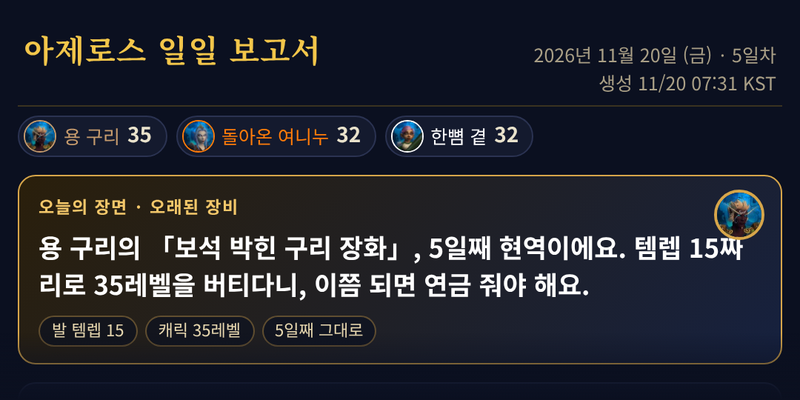
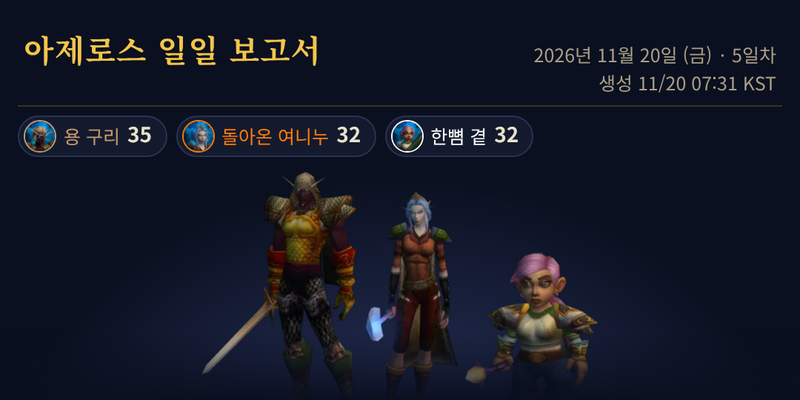
Update /azeroth/ 2026-11-20 daily report

Changed region(s): [[0.0, 0.42, 1.0, 0.96]]

diff --git a/azeroth/index.html b/azeroth/index.html
@@ -87,13 +87,21 @@ details[open] summary:before{content:'▾ '}
 .cc .todo{font-size:13px;margin-top:5px;color:#dfe6f7}.cc .todo:before{content:"오늘 → ";color:#8ee08e;font-weight:700}
 .cc.alt{opacity:.72;padding:7px 0}.cc.alt img.av{width:28px;height:28px}
 .pline{font-size:13px;margin-top:8px;padding-top:8px;border-top:1px solid #222a47}
+.lineup{position:relative;margin:10px 0 0;text-align:center;background:radial-gradient(ellipse at 50% 95%,#2a3560 0,#0b102000 70%);padding-bottom:8px}
+.lineup .st{position:relative;display:inline-block}.lineup img{display:block;margin:0 auto;max-width:100%;height:170px}
+.lineup .nm{position:absolute;bottom:-2px;transform:translateX(-50%);font-size:11.5px;font-weight:800;background:#0b1020cc;border-radius:99px;padding:0 7px;white-space:nowrap;text-align:center;line-height:1.35}
+.lineup .lnote{font-size:10.5px;color:#ffb36b;margin-top:6px}
+.scene2{display:flex;gap:8px;align-items:stretch}.scene2 .tx{flex:1;min-width:0}
+.zoom{flex:none;width:92px;display:flex;flex-direction:column;gap:4px;align-items:center}
+.zoom .mini{height:96px}.zoom .box{width:92px;border:2px solid #ff5a4a;border-radius:8px;overflow:hidden;background:#0b1020}
+.zoom .box img{width:100%;display:block}.zoom .lb{font-size:10.5px;color:#ff8a7a;font-weight:800;text-align:center}
 
 .fullink{display:block;text-align:center;margin:14px 0 4px;padding:10px;border:1px solid #2c3557;border-radius:10px;color:#c9d3ff;text-decoration:none;font-size:14px}
 </style>
 </head>
 <body>
 <div class="wrap">
-<div class="hero"><h1>아제로스 일일 보고서</h1><div class="d">2026년 11월 20일 (금) · 5일차<br><span class="g">생성 11/20 07:31 KST</span></div></div><div class="chips"><div class="chip"><img src="https://render.worldofwarcraft.com/forever-kr/character/202/1063370-avatar.jpg" style="border-color:#C69B6D"><span style="color:#C69B6D">용 구리</span><b>35</b></div><div class="chip"><img src="https://render.worldofwarcraft.com/forever-kr/character/249/1282809-avatar.jpg" style="border-color:#FF7C0A"><span style="color:#FF7C0A">돌아온 여니누</span><b>32</b></div><div class="chip"><img src="https://render.worldofwarcraft.com/forever-kr/character/210/1283026-avatar.jpg" style="border-color:#FFFFFF"><span style="color:#FFFFFF">한뼘 곁</span><b>32</b></div></div><div class="scene"><img class="av" src="https://render.worldofwarcraft.com/forever-kr/character/202/1063370-avatar.jpg"><div class="k">오늘의 장면 · 오래된 장비</div><div class="big">용 구리의 「보석 박힌 구리 장화」, 5일째 현역이에요. 템렙 15짜리로 35레벨을 버티다니, 이쯤 되면 연금 줘야 해요.</div><div class="ev"><span>발 템렙 15</span><span>캐릭 35레벨</span><span>5일째 그대로</span></div></div><div class="panel race"><h2>레벨 경주<small>11/16~11/20 아침 기록</small></h2><svg viewBox="0 0 360 92" role="img" aria-label="레벨 경주"><text x="8" y="89" font-size="10" fill="#7d89a8" text-anchor="middle">11/16</text><text x="78" y="89" font-size="10" fill="#7d89a8" text-anchor="middle">11/17</text><text x="149" y="89" font-size="10" fill="#7d89a8" text-anchor="middle">11/18</text><text x="220" y="89" font-size="10" fill="#7d89a8" text-anchor="middle">11/19</text><text x="290" y="89" font-size="10" fill="#7d89a8" text-anchor="middle">11/20</text><polyline points="8.0,37.5 78.5,32.0 149.0,26.5 219.5,21.0 290.0,15.5" fill="none" stroke="#C69B6D" stroke-width="2.2" stroke-linejoin="round" stroke-linecap="round"/><polyline points="8.0,65.0 78.5,54.0 149.0,54.0 219.5,32.0 290.0,32.0" fill="none" stroke="#FF7C0A" stroke-width="2.2" stroke-linejoin="round" stroke-linecap="round"/><polyline points="8.0,70.5 78.5,59.5 149.0,59.5 219.5,32.0 290.0,32.0" fill="none" stroke="#FFFFFF" stroke-width="2.2" stroke-linejoin="round" stroke-linecap="round"/><text x="296" y="19.5" font-size="11" font-weight="700" fill="#C69B6D">구리 35</text><text x="296" y="36.0" font-size="11" font-weight="700" fill="#FF7C0A">여니누 32</text><text x="296" y="48.0" font-size="11" font-weight="700" fill="#FFFFFF">곁 32</text></svg></div><div class="panel"><h2>고인물의 한마디<small>본캐 셋 · 어제와 오늘</small></h2><div class="cc"><img class="av" src="https://render.worldofwarcraft.com/forever-kr/character/210/1283026-avatar.jpg" style="border-color:#FFFFFF"><div style="flex:1"><span class="nm" style="color:#FFFFFF">한뼘 곁</span> <span class="muted">유집 · 32레벨 · 템렙 23</span><div class="y">아머리 기준 변화 없음</div><div class="q"><b>기다리는 「물약 가방」</b>「갈대로 엮은 마음」 보상 「물약 가방」(템렙 33), 아직 안 받았다면 장신구1 칸은 지금 장식이에요. 이미 했다면 제가 민망한 거고요. 발굴 현장: 저습지 안에서 받는 퀘예요.</div><div class="todo"><b>저습지</b> 퀘 9개부터 끝내요.</div><details><summary>장비·전문기술</summary><div class="gear"><span class="e"></span><img src="https://render.worldofwarcraft.com/forever-kr/icons/56/133302.jpg" style="border-color:#0070dd" title="거인석 메달"><img src="https://render.worldofwarcraft.com/forever-kr/icons/56/135036.jpg" style="border-color:#1eff00" title="명예의 어깨보호대"><img src="https://render.worldofwarcraft.com/forever-kr/icons/56/133758.jpg" style="border-color:#1eff00" title="신념의 망토"><img src="https://render.worldofwarcraft.com/forever-kr/icons/56/135012.jpg" style="border-color:#1eff00" title="올빼미의 미명 갑옷"><img src="https://render.worldofwarcraft.com/forever-kr/icons/56/132611.jpg" style="border-color:#1eff00" title="올빼미의 해적단 팔보호구"><img src="https://render.worldofwarcraft.com/forever-kr/icons/56/132954.jpg" style="border-color:#1eff00" title="별자리 장갑"><img src="https://render.worldofwarcraft.com/forever-kr/icons/56/132500.jpg" style="border-color:#1eff00" title="광휘의 허리띠"><img src="https://render.worldofwarcraft.com/forever-kr/icons/56/134588.jpg" style="border-color:#1eff00" title="어둠의 순찰대 바지"><img src="https://render.worldofwarcraft.com/forever-kr/icons/56/132539.jpg" style="border-color:#1eff00" title="소각자의 장화"><img src="https://render.worldofwarcraft.com/forever-kr/icons/56/133347.jpg" style="border-color:#0070dd" title="린의 인장"><img src="https://render.worldofwarcraft.com/forever-kr/icons/56/133350.jpg" style="border-color:#1eff00" title="라디모어 가보 반지"><span class="e"></span><span class="e"></span><img src="https://render.worldofwarcraft.com/forever-kr/icons/56/135147.jpg" style="border-color:#0070dd" title="서부 몰락지대 지팡이"><span class="e"></span><img src="https://render.worldofwarcraft.com/forever-kr/icons/56/135139.jpg" style="border-color:#0070dd" title="우레나무"></div><div class="muted" style="margin-top:4px">재봉술 122/150 · 마법부여 119/150 · 요리 107/150 · 응급치료 99/150</div></details></div></div><div class="cc"><img class="av" src="https://render.worldofwarcraft.com/forever-kr/character/202/1063370-avatar.jpg" style="border-color:#C69B6D"><div style="flex:1"><span class="nm" style="color:#C69B6D">용 구리</span> <span class="muted">진규 · 35레벨 · 템렙 27</span><div class="y">35레벨(+1) · 채광 +12 · 대장기술 +10 · 새 템 1개</div><div class="q"><b>정이 많은 발</b>35레벨 발에 템렙 15 「보석 박힌 구리 장화」. 이건 장비가 아니라 유물이에요. 박물관에 기증할 때가 됐어요.</div><div class="todo"><b>힐스브래드 구릉지</b> 퀘 3개부터 끝내고, 알터랙 산맥(14.3, 59.6) 「비전에 굶주린 자들」 퀘로 빈 목 칸에 <b>「Fallen Guard&#x27;s Pendant」</b>(템렙 36)를 채워요.</div><details><summary>장비·전문기술</summary><div class="gear"><img src="https://render.worldofwarcraft.com/forever-kr/icons/56/133070.jpg" style="border-color:#1eff00" title="불금속 코이프"><span class="e"></span><img src="https://render.worldofwarcraft.com/forever-kr/icons/56/135039.jpg" style="border-color:#1eff00" title="아른거리는 미늘 어깨갑옷"><img src="https://render.worldofwarcraft.com/forever-kr/icons/56/133772.jpg" style="border-color:#0070dd" title="골렘 전쟁 망토"><img src="https://render.worldofwarcraft.com/forever-kr/icons/56/132751.jpg" style="border-color:#1eff00" title="희미하게 빛나는 쇠사슬 흉갑"><img src="https://render.worldofwarcraft.com/forever-kr/icons/56/132602.jpg" style="border-color:#1eff00" title="힘의 띠매듭 팔보호구"><img src="https://render.worldofwarcraft.com/forever-kr/icons/56/132937.jpg" style="border-color:#1eff00" title="희미하게 빛나는 쇠사슬 건틀릿"><img src="https://render.worldofwarcraft.com/forever-kr/icons/56/132516.jpg" style="border-color:#0070dd" title="황혼의 군주 요대"><img src="https://render.worldofwarcraft.com/forever-kr/icons/56/134583.jpg" style="border-color:#0070dd" title="서부 몰락지대 다리보호구"><img src="https://render.worldofwarcraft.com/forever-kr/icons/56/132554.jpg" style="border-color:#0070dd" title="보석 박힌 구리 장화"><img src="https://render.worldofwarcraft.com/forever-kr/icons/56/133347.jpg" style="border-color:#0070dd" title="린의 인장"><img src="https://render.worldofwarcraft.com/forever-kr/icons/56/133350.jpg" style="border-color:#1eff00" title="파멸의 반지"><img src="https://render.worldofwarcraft.com/forever-kr/icons/56/136155.jpg" style="border-color:#0070dd" title="저주받은 멀록 눈"><img src="https://render.worldofwarcraft.com/forever-kr/icons/56/133633.jpg" style="border-color:#1eff00" title="물약 가방"><img src="https://render.worldofwarcraft.com/forever-kr/icons/56/135274.jpg" style="border-color:#0070dd" title="믿음직한 검"><span class="e"></span><img src="https://render.worldofwarcraft.com/forever-kr/icons/56/134536.jpg" style="border-color:#0070dd" title="골렘시야 장총"></div><div class="muted" style="margin-top:4px">채광 150/150 · 대장기술 110/150 · 요리 150/150 · 낚시 98/150 · 응급치료 150/150</div></details></div></div><div class="cc"><img class="av" src="https://render.worldofwarcraft.com/forever-kr/character/249/1282809-avatar.jpg" style="border-color:#FF7C0A"><div style="flex:1"><span class="nm" style="color:#FF7C0A">돌아온 여니누</span> <span class="muted">주연 · 32레벨 · 템렙 23</span><div class="y">낚시 +8 · 약초채집 +1</div><div class="q"><b>천장에 박힌 요리</b>요리 150/150에서 계속 두들기는 건 수련이 아니라 그냥 노동이에요. 전문기술 선생님한테 당장 가요.</div><div class="todo"><b>저습지</b> 퀘 7개부터 끝내고, 「갈대로 엮은 마음」 퀘로 빈 장신구1 칸에 <b>「물약 가방」</b>(템렙 33)을 채워요.</div><details><summary>장비·전문기술</summary><div class="gear"><span class="e"></span><img src="https://render.worldofwarcraft.com/forever-kr/icons/56/133302.jpg" style="border-color:#0070dd" title="거인석 메달"><img src="https://render.worldofwarcraft.com/forever-kr/icons/56/135039.jpg" style="border-color:#1eff00" title="다크샤이어 어깨보호대"><img src="https://render.worldofwarcraft.com/forever-kr/icons/56/133768.jpg" style="border-color:#1eff00" title="발굴 망토"><img src="https://render.worldofwarcraft.com/forever-kr/icons/56/132722.jpg" style="border-color:#0070dd" title="서부 몰락지대 튜닉"><img src="https://render.worldofwarcraft.com/forever-kr/icons/56/132606.jpg" style="border-color:#1eff00" title="용기의 완장"><img src="https://render.worldofwarcraft.com/forever-kr/icons/56/132958.jpg" style="border-color:#0070dd" title="데피아즈단 탈옥 장갑"><img src="https://render.worldofwarcraft.com/forever-kr/icons/56/132492.jpg" style="border-color:#1eff00" title="수목의 가죽 허리띠"><img src="https://render.worldofwarcraft.com/forever-kr/icons/56/134586.jpg" style="border-color:#1eff00" title="칼날아귀 반바지"><img src="https://render.worldofwarcraft.com/forever-kr/icons/56/132542.jpg" style="border-color:#1eff00" title="대사의 장화"><img src="https://render.worldofwarcraft.com/forever-kr/icons/56/133347.jpg" style="border-color:#0070dd" title="린의 인장"><img src="https://render.worldofwarcraft.com/forever-kr/icons/56/133344.jpg" style="border-color:#0070dd" title="데피아즈단 변절마법사의 반지"><span class="e"></span><span class="e"></span><img src="https://render.worldofwarcraft.com/forever-kr/icons/56/134435.jpg" style="border-color:#0070dd" title="도굴꾼의 삽"><span class="e"></span><img src="https://render.worldofwarcraft.com/forever-kr/icons/56/134914.jpg" style="border-color:#1eff00" title="변덕스러운 조류의 우상"></div><div class="muted" style="margin-top:4px">연금술 136/150 · 약초채집 187/225 · 요리 150/150 · 낚시 78/150 · 응급치료 150/150</div></details></div></div><div class="cc alt"><img class="av" src="https://render.worldofwarcraft.com/forever-kr/character/72/1283144-avatar.jpg" style="border-color:#F48CBA"><div><span class="nm" style="color:#F48CBA">망치든 여니누</span><span class="tag alt">부캐</span> <span class="muted">주연 · 23레벨</span><div class="y">23레벨(+1) · 응급치료 +17 · 채광 +5 · 새 템 5개</div></div></div><div class="pline"><span class="tag party">파티</span> 한뼘 곁과 돌아온 여니누는 저습지가 겹치니 같이 돌고, <b>「티탄 신화」</b>는 셋이 붉은십자군 수도원 가는 날 함께 끝내요.</div></div><div class="panel"><h2>오늘의 장사<small>경매장 #110 · 예비 · 관측 9시간</small></h2><div class="tr"><span class="who">한뼘 곁</span>「파란색 작업복」을 만들어 팔면 하루 <span class="g">67실 80코</span> 정도 남아요.<span class="sub">개당 33실 50코 남고, 시간당 0.11개 팔려요. 아는 도안 · 신뢰도 예비·낮음</span></div><div class="tr"><span class="who">용 구리</span>「육즙이 많은 돼지 갈비」를 만들어 팔면 하루 <span class="g">47실 24코</span> 정도 남아요.<span class="sub">개당 2실 36코 남고, 시간당 2.22개 팔려요. 아는 도안 · 신뢰도 예비·중간</span></div><div class="tr"><span class="who">돌아온 여니누</span>「아귀 오일」을 만들어 팔면 하루 <span class="g">81실 50코</span> 정도 남아요.<span class="sub">개당 4실 8코 남고, 시간당 5.32개 팔려요. 아는 도안 · 신뢰도 예비·중간</span></div></div><div class="panel more"><details><summary>더 보기 · 파티 공방, 템렙, 공통 퀘</summary><div class="in"><p><b>파티 공방</b> 주연님 「지혜의 비약」이 있으면 유집님이 「명상의 장갑」을 만들 수 있어요.</p><p><b>템렙 최약점</b> 돌아온 여니누는 원거리(템렙 16)예요. 용 구리는 발(템렙 15)예요. 한뼘 곁는 손목(템렙 19)예요.</p><p><b>본캐 공통 퀘</b> 「페레놀드 티아라」(스톰윈드), 「마우렌 돕기」(돌발톱 산맥), 「티탄 신화」(붉은십자군 수도원), 「송블레이드 수색」(발굴 현장: 저습지)</p><p class="muted">진영 저울·직업 희소성·재료 시세·시즌 기록은 전체판에 있어요.</p></div></details></div>
+<div class="hero"><h1>아제로스 일일 보고서</h1><div class="d">2026년 11월 20일 (금) · 5일차<br><span class="g">생성 11/20 07:31 KST</span></div></div><div class="chips"><div class="chip"><img src="https://render.worldofwarcraft.com/forever-kr/character/202/1063370-avatar.jpg" style="border-color:#C69B6D"><span style="color:#C69B6D">용 구리</span><b>35</b></div><div class="chip"><img src="https://render.worldofwarcraft.com/forever-kr/character/249/1282809-avatar.jpg" style="border-color:#FF7C0A"><span style="color:#FF7C0A">돌아온 여니누</span><b>32</b></div><div class="chip"><img src="https://render.worldofwarcraft.com/forever-kr/character/210/1283026-avatar.jpg" style="border-color:#FFFFFF"><span style="color:#FFFFFF">한뼘 곁</span><b>32</b></div></div><div class="lineup"><div class="st"><img src="img/lineup.webp?v=19e11efbda" alt="파티 단체 사진 · 아머리 렌더 2026-11-20"><span class="nm" style="left:19.8%;color:#C69B6D">용 구리</span><span class="nm" style="left:52.9%;color:#FF7C0A">돌아온 여니누 *</span><span class="nm" style="left:83.2%;color:#FFFFFF">한뼘 곁 *</span></div><div class="lnote">* 돌아온 여니누·한뼘 곁: 렌더가 보고서보다 최신</div></div><div class="scene"><div class="scene2"><div class="tx"><div class="k">오늘의 장면 · 오래된 장비</div><div class="big">용 구리의 「보석 박힌 구리 장화」, 5일째 현역이에요. 템렙 15짜리로 35레벨을 버티다니, 이쯤 되면 연금 줘야 해요.</div><div class="ev"><span>발 템렙 15</span><span>캐릭 35레벨</span><span>5일째 그대로</span></div></div><div class="zoom"><img class="mini" src="img/scene_full.webp?v=6dc0b24a33" alt="용 구리 전신"><div class="box"><img src="img/zoom.webp?v=7cc9d6032b" alt="발 확대"></div><div class="lb">발 · 템렙 15</div></div></div></div><div class="panel race"><h2>레벨 경주<small>11/16~11/20 아침 기록</small></h2><svg viewBox="0 0 360 92" role="img" aria-label="레벨 경주"><text x="0" y="89" font-size="10" fill="#7d89a8" text-anchor="start">11/16</text><text x="78" y="89" font-size="10" fill="#7d89a8" text-anchor="middle">11/17</text><text x="149" y="89" font-size="10" fill="#7d89a8" text-anchor="middle">11/18</text><text x="220" y="89" font-size="10" fill="#7d89a8" text-anchor="middle">11/19</text><text x="290" y="89" font-size="10" fill="#7d89a8" text-anchor="middle">11/20</text><polyline points="8.0,37.5 78.5,32.0 149.0,26.5 219.5,21.0 290.0,15.5" fill="none" stroke="#C69B6D" stroke-width="2.2" stroke-linejoin="round" stroke-linecap="round"/><polyline points="8.0,65.0 78.5,54.0 149.0,54.0 219.5,32.0 290.0,32.0" fill="none" stroke="#FF7C0A" stroke-width="2.2" stroke-linejoin="round" stroke-linecap="round"/><polyline points="8.0,70.5 78.5,59.5 149.0,59.5 219.5,32.0 290.0,32.0" fill="none" stroke="#FFFFFF" stroke-width="2.2" stroke-linejoin="round" stroke-linecap="round"/><text x="296" y="19.5" font-size="11" font-weight="700" fill="#C69B6D">구리 35</text><text x="296" y="36.0" font-size="11" font-weight="700" fill="#FF7C0A">여니누 32</text><text x="296" y="48.0" font-size="11" font-weight="700" fill="#FFFFFF">곁 32</text></svg></div><div class="panel"><h2>고인물의 한마디<small>본캐 셋 · 어제와 오늘</small></h2><div class="cc"><img class="av" src="https://render.worldofwarcraft.com/forever-kr/character/210/1283026-avatar.jpg" style="border-color:#FFFFFF"><div style="flex:1"><span class="nm" style="color:#FFFFFF">한뼘 곁</span> <span class="muted">유집 · 32레벨 · 템렙 23</span><div class="y">아머리 기준 변화 없음</div><div class="q"><b>기다리는 「물약 가방」</b>「갈대로 엮은 마음」 보상 「물약 가방」(템렙 33), 아직 안 받았다면 장신구1 칸은 지금 장식이에요. 이미 했다면 제가 민망한 거고요. 발굴 현장: 저습지 안에서 받는 퀘예요.</div><div class="todo"><b>저습지</b> 퀘 9개부터 끝내요.</div><details><summary>장비·전문기술</summary><div class="gear"><span class="e"></span><img src="https://render.worldofwarcraft.com/forever-kr/icons/56/133302.jpg" style="border-color:#0070dd" title="거인석 메달"><img src="https://render.worldofwarcraft.com/forever-kr/icons/56/135036.jpg" style="border-color:#1eff00" title="명예의 어깨보호대"><img src="https://render.worldofwarcraft.com/forever-kr/icons/56/133758.jpg" style="border-color:#1eff00" title="신념의 망토"><img src="https://render.worldofwarcraft.com/forever-kr/icons/56/135012.jpg" style="border-color:#1eff00" title="올빼미의 미명 갑옷"><img src="https://render.worldofwarcraft.com/forever-kr/icons/56/132611.jpg" style="border-color:#1eff00" title="올빼미의 해적단 팔보호구"><img src="https://render.worldofwarcraft.com/forever-kr/icons/56/132954.jpg" style="border-color:#1eff00" title="별자리 장갑"><img src="https://render.worldofwarcraft.com/forever-kr/icons/56/132500.jpg" style="border-color:#1eff00" title="광휘의 허리띠"><img src="https://render.worldofwarcraft.com/forever-kr/icons/56/134588.jpg" style="border-color:#1eff00" title="어둠의 순찰대 바지"><img src="https://render.worldofwarcraft.com/forever-kr/icons/56/132539.jpg" style="border-color:#1eff00" title="소각자의 장화"><img src="https://render.worldofwarcraft.com/forever-kr/icons/56/133347.jpg" style="border-color:#0070dd" title="린의 인장"><img src="https://render.worldofwarcraft.com/forever-kr/icons/56/133350.jpg" style="border-color:#1eff00" title="라디모어 가보 반지"><span class="e"></span><span class="e"></span><img src="https://render.worldofwarcraft.com/forever-kr/icons/56/135147.jpg" style="border-color:#0070dd" title="서부 몰락지대 지팡이"><span class="e"></span><img src="https://render.worldofwarcraft.com/forever-kr/icons/56/135139.jpg" style="border-color:#0070dd" title="우레나무"></div><div class="muted" style="margin-top:4px">재봉술 122/150 · 마법부여 119/150 · 요리 107/150 · 응급치료 99/150</div></details></div></div><div class="cc"><img class="av" src="https://render.worldofwarcraft.com/forever-kr/character/202/1063370-avatar.jpg" style="border-color:#C69B6D"><div style="flex:1"><span class="nm" style="color:#C69B6D">용 구리</span> <span class="muted">진규 · 35레벨 · 템렙 27</span><div class="y">35레벨(+1) · 채광 +12 · 대장기술 +10 · 새 템 1개</div><div class="q"><b>정이 많은 발</b>35레벨 발에 템렙 15 「보석 박힌 구리 장화」. 이건 장비가 아니라 유물이에요. 박물관에 기증할 때가 됐어요.</div><div class="todo"><b>힐스브래드 구릉지</b> 퀘 3개부터 끝내고, 알터랙 산맥(14.3, 59.6) 「비전에 굶주린 자들」 퀘로 빈 목 칸에 <b>「Fallen Guard&#x27;s Pendant」</b>(템렙 36)를 채워요.</div><details><summary>장비·전문기술</summary><div class="gear"><img src="https://render.worldofwarcraft.com/forever-kr/icons/56/133070.jpg" style="border-color:#1eff00" title="불금속 코이프"><span class="e"></span><img src="https://render.worldofwarcraft.com/forever-kr/icons/56/135039.jpg" style="border-color:#1eff00" title="아른거리는 미늘 어깨갑옷"><img src="https://render.worldofwarcraft.com/forever-kr/icons/56/133772.jpg" style="border-color:#0070dd" title="골렘 전쟁 망토"><img src="https://render.worldofwarcraft.com/forever-kr/icons/56/132751.jpg" style="border-color:#1eff00" title="희미하게 빛나는 쇠사슬 흉갑"><img src="https://render.worldofwarcraft.com/forever-kr/icons/56/132602.jpg" style="border-color:#1eff00" title="힘의 띠매듭 팔보호구"><img src="https://render.worldofwarcraft.com/forever-kr/icons/56/132937.jpg" style="border-color:#1eff00" title="희미하게 빛나는 쇠사슬 건틀릿"><img src="https://render.worldofwarcraft.com/forever-kr/icons/56/132516.jpg" style="border-color:#0070dd" title="황혼의 군주 요대"><img src="https://render.worldofwarcraft.com/forever-kr/icons/56/134583.jpg" style="border-color:#0070dd" title="서부 몰락지대 다리보호구"><img src="https://render.worldofwarcraft.com/forever-kr/icons/56/132554.jpg" style="border-color:#0070dd" title="보석 박힌 구리 장화"><img src="https://render.worldofwarcraft.com/forever-kr/icons/56/133347.jpg" style="border-color:#0070dd" title="린의 인장"><img src="https://render.worldofwarcraft.com/forever-kr/icons/56/133350.jpg" style="border-color:#1eff00" title="파멸의 반지"><img src="https://render.worldofwarcraft.com/forever-kr/icons/56/136155.jpg" style="border-color:#0070dd" title="저주받은 멀록 눈"><img src="https://render.worldofwarcraft.com/forever-kr/icons/56/133633.jpg" style="border-color:#1eff00" title="물약 가방"><img src="https://render.worldofwarcraft.com/forever-kr/icons/56/135274.jpg" style="border-color:#0070dd" title="믿음직한 검"><span class="e"></span><img src="https://render.worldofwarcraft.com/forever-kr/icons/56/134536.jpg" style="border-color:#0070dd" title="골렘시야 장총"></div><div class="muted" style="margin-top:4px">채광 150/150 · 대장기술 110/150 · 요리 150/150 · 낚시 98/150 · 응급치료 150/150</div></details></div></div><div class="cc"><img class="av" src="https://render.worldofwarcraft.com/forever-kr/character/249/1282809-avatar.jpg" style="border-color:#FF7C0A"><div style="flex:1"><span class="nm" style="color:#FF7C0A">돌아온 여니누</span> <span class="muted">주연 · 32레벨 · 템렙 23</span><div class="y">낚시 +8 · 약초채집 +1</div><div class="q"><b>천장에 박힌 요리</b>요리 150/150에서 계속 두들기는 건 수련이 아니라 그냥 노동이에요. 전문기술 선생님한테 당장 가요.</div><div class="todo"><b>저습지</b> 퀘 7개부터 끝내고, 「갈대로 엮은 마음」 퀘로 빈 장신구1 칸에 <b>「물약 가방」</b>(템렙 33)을 채워요.</div><details><summary>장비·전문기술</summary><div class="gear"><span class="e"></span><img src="https://render.worldofwarcraft.com/forever-kr/icons/56/133302.jpg" style="border-color:#0070dd" title="거인석 메달"><img src="https://render.worldofwarcraft.com/forever-kr/icons/56/135039.jpg" style="border-color:#1eff00" title="다크샤이어 어깨보호대"><img src="https://render.worldofwarcraft.com/forever-kr/icons/56/133768.jpg" style="border-color:#1eff00" title="발굴 망토"><img src="https://render.worldofwarcraft.com/forever-kr/icons/56/132722.jpg" style="border-color:#0070dd" title="서부 몰락지대 튜닉"><img src="https://render.worldofwarcraft.com/forever-kr/icons/56/132606.jpg" style="border-color:#1eff00" title="용기의 완장"><img src="https://render.worldofwarcraft.com/forever-kr/icons/56/132958.jpg" style="border-color:#0070dd" title="데피아즈단 탈옥 장갑"><img src="https://render.worldofwarcraft.com/forever-kr/icons/56/132492.jpg" style="border-color:#1eff00" title="수목의 가죽 허리띠"><img src="https://render.worldofwarcraft.com/forever-kr/icons/56/134586.jpg" style="border-color:#1eff00" title="칼날아귀 반바지"><img src="https://render.worldofwarcraft.com/forever-kr/icons/56/132542.jpg" style="border-color:#1eff00" title="대사의 장화"><img src="https://render.worldofwarcraft.com/forever-kr/icons/56/133347.jpg" style="border-color:#0070dd" title="린의 인장"><img src="https://render.worldofwarcraft.com/forever-kr/icons/56/133344.jpg" style="border-color:#0070dd" title="데피아즈단 변절마법사의 반지"><span class="e"></span><span class="e"></span><img src="https://render.worldofwarcraft.com/forever-kr/icons/56/134435.jpg" style="border-color:#0070dd" title="도굴꾼의 삽"><span class="e"></span><img src="https://render.worldofwarcraft.com/forever-kr/icons/56/134914.jpg" style="border-color:#1eff00" title="변덕스러운 조류의 우상"></div><div class="muted" style="margin-top:4px">연금술 136/150 · 약초채집 187/225 · 요리 150/150 · 낚시 78/150 · 응급치료 150/150</div></details></div></div><div class="cc alt"><img class="av" src="https://render.worldofwarcraft.com/forever-kr/character/72/1283144-avatar.jpg" style="border-color:#F48CBA"><div><span class="nm" style="color:#F48CBA">망치든 여니누</span><span class="tag alt">부캐</span> <span class="muted">주연 · 23레벨</span><div class="y">23레벨(+1) · 응급치료 +17 · 채광 +5 · 새 템 5개</div></div></div><div class="pline"><span class="tag party">파티</span> 한뼘 곁과 돌아온 여니누는 저습지가 겹치니 같이 돌고, <b>「티탄 신화」</b>는 셋이 붉은십자군 수도원 가는 날 함께 끝내요.</div></div><div class="panel"><h2>오늘의 장사<small>경매장 #110 · 예비 · 관측 9시간</small></h2><div class="tr"><span class="who">한뼘 곁</span>「파란색 작업복」을 만들어 팔면 하루 <span class="g">67실 80코</span> 정도 남아요.<span class="sub">개당 33실 50코 남고, 시간당 0.11개 팔려요. 아는 도안 · 신뢰도 예비·낮음</span></div><div class="tr"><span class="who">용 구리</span>「육즙이 많은 돼지 갈비」를 만들어 팔면 하루 <span class="g">47실 24코</span> 정도 남아요.<span class="sub">개당 2실 36코 남고, 시간당 2.22개 팔려요. 아는 도안 · 신뢰도 예비·중간</span></div><div class="tr"><span class="who">돌아온 여니누</span>「아귀 오일」을 만들어 팔면 하루 <span class="g">81실 50코</span> 정도 남아요.<span class="sub">개당 4실 8코 남고, 시간당 5.32개 팔려요. 아는 도안 · 신뢰도 예비·중간</span></div></div><div class="panel more"><details><summary>더 보기 · 파티 공방, 템렙, 공통 퀘</summary><div class="in"><p><b>파티 공방</b> 주연님 「지혜의 비약」이 있으면 유집님이 「명상의 장갑」을 만들 수 있어요.</p><p><b>템렙 최약점</b> 돌아온 여니누는 원거리(템렙 16)예요. 용 구리는 발(템렙 15)예요. 한뼘 곁는 손목(템렙 19)예요.</p><p><b>본캐 공통 퀘</b> 「페레놀드 티아라」(스톰윈드), 「마우렌 돕기」(돌발톱 산맥), 「티탄 신화」(붉은십자군 수도원), 「송블레이드 수색」(발굴 현장: 저습지)</p><p class="muted">진영 저울·직업 희소성·재료 시세·시즌 기록은 전체판에 있어요.</p></div></details></div>
 <a class="fullink" href="full.html">전체판 보기 · 장비, 공방, 시즌 기록, 진영·시세</a>
 <footer class="foot">매일 아침 아머리 공개 정보·블리자드 공식 API·로컬 퀘 DB로 만듭니다.<br>
 업그레이드 퀘 완료 여부는 아머리에 없어 미확인</footer>

diff --git a/azeroth/full.html b/azeroth/full.html
@@ -312,7 +312,7 @@ table.mkt tr.grp td{color:#ff9c3a;font-size:11px;font-weight:800;border-bottom:n
 <p class="xnote">숙련 = 현재/상한(주·보조 전문기술 모두). 업적 점수는 포에버 API에서 0으로 나와서 개수로 비교해요. 탐험 = 「○○ 탐험」 업적 완료/진행 중 지역 수.</p></section>
 <section class="panel xsec"><h2>진행 퀘스트·마지막 접속<small>공식 API</small></h2>
 <p class="xline">가장 최근에 아제로스에 있던 본캐는 <b style="color:#C69B6D">용 구리</b>예요.</p>
-<div class="qrow"><span class="nm" style="color:#C69B6D">용 구리</span><span class="seen">11/20 01:14 KST · 16시간 전</span><span class="qq">진행 중 38 <span class="chg">+11</span> · 완료 누적 476 <span class="chg">+22</span></span></div><div class="qrow"><span class="nm" style="color:#FF7C0A">돌아온 여니누</span><span class="seen">11/19 23:18 KST · 18시간 전</span><span class="qq">진행 중 23 <span class="chg">+4</span> · 완료 누적 449 <span class="chg">+1</span></span></div><div class="qrow"><span class="nm" style="color:#F48CBA">망치든 여니누 <span class="alt-tag">부캐</span></span><span class="seen">11/19 21:46 KST · 19시간 전</span><span class="qq">진행 중 37 <span class="xflat">＝</span> · 완료 누적 245 <span class="xflat">＝</span></span></div><div class="qrow"><span class="nm" style="color:#FFFFFF">한뼘 곁</span><span class="seen">11/19 23:18 KST · 18시간 전</span><span class="qq">진행 중 35 <span class="chg">+1</span> · 완료 누적 402 <span class="chg">+1</span></span></div>
+<div class="qrow"><span class="nm" style="color:#C69B6D">용 구리</span><span class="seen">11/20 01:14 KST · 16시간 전</span><span class="qq">진행 중 38 <span class="chg">+11</span> · 완료 누적 476 <span class="chg">+22</span></span></div><div class="qrow"><span class="nm" style="color:#FF7C0A">돌아온 여니누</span><span class="seen">11/19 23:18 KST · 18시간 전</span><span class="qq">진행 중 23 <span class="chg">+4</span> · 완료 누적 449 <span class="chg">+1</span></span></div><div class="qrow"><span class="nm" style="color:#F48CBA">망치든 여니누 <span class="alt-tag">부캐</span></span><span class="seen">11/19 21:46 KST · 20시간 전</span><span class="qq">진행 중 37 <span class="xflat">＝</span> · 완료 누적 245 <span class="xflat">＝</span></span></div><div class="qrow"><span class="nm" style="color:#FFFFFF">한뼘 곁</span><span class="seen">11/19 23:18 KST · 18시간 전</span><span class="qq">진행 중 35 <span class="chg">+1</span> · 완료 누적 402 <span class="chg">+1</span></span></div>
 <div class="shared">🤝 같이 들고 있는 퀘스트: 본캐 셋 공통 <b>3</b>개, 둘 공통 23개<ul><li>「페레놀드 티아라」 · 스톰윈드 <small class="muted">본캐 셋 다</small></li><li>「마우렌 돕기」 · 돌발톱 산맥 <small class="muted">본캐 셋 다</small></li><li>「티탄 신화」 · 붉은십자군 수도원 <small class="muted">본캐 셋 다</small></li><li>「송블레이드 수색」 · 발굴 현장: 저습지 <small class="muted">한뼘 곁 · 돌아온 여니누</small></li></ul></div>
 <p class="xnote">마지막 접속은 공식 프로필의 마지막 로그인 시각(한국 시간). 진행·완료 옆 +숫자는 어제 대비(전날 기록이 있을 때).</p></section>
 <section class="panel xsec trade"><h2>오늘의 장사 추천<small>제작 차익 · 경매장 #110</small><span class="xbadge est">예비</span></h2>
